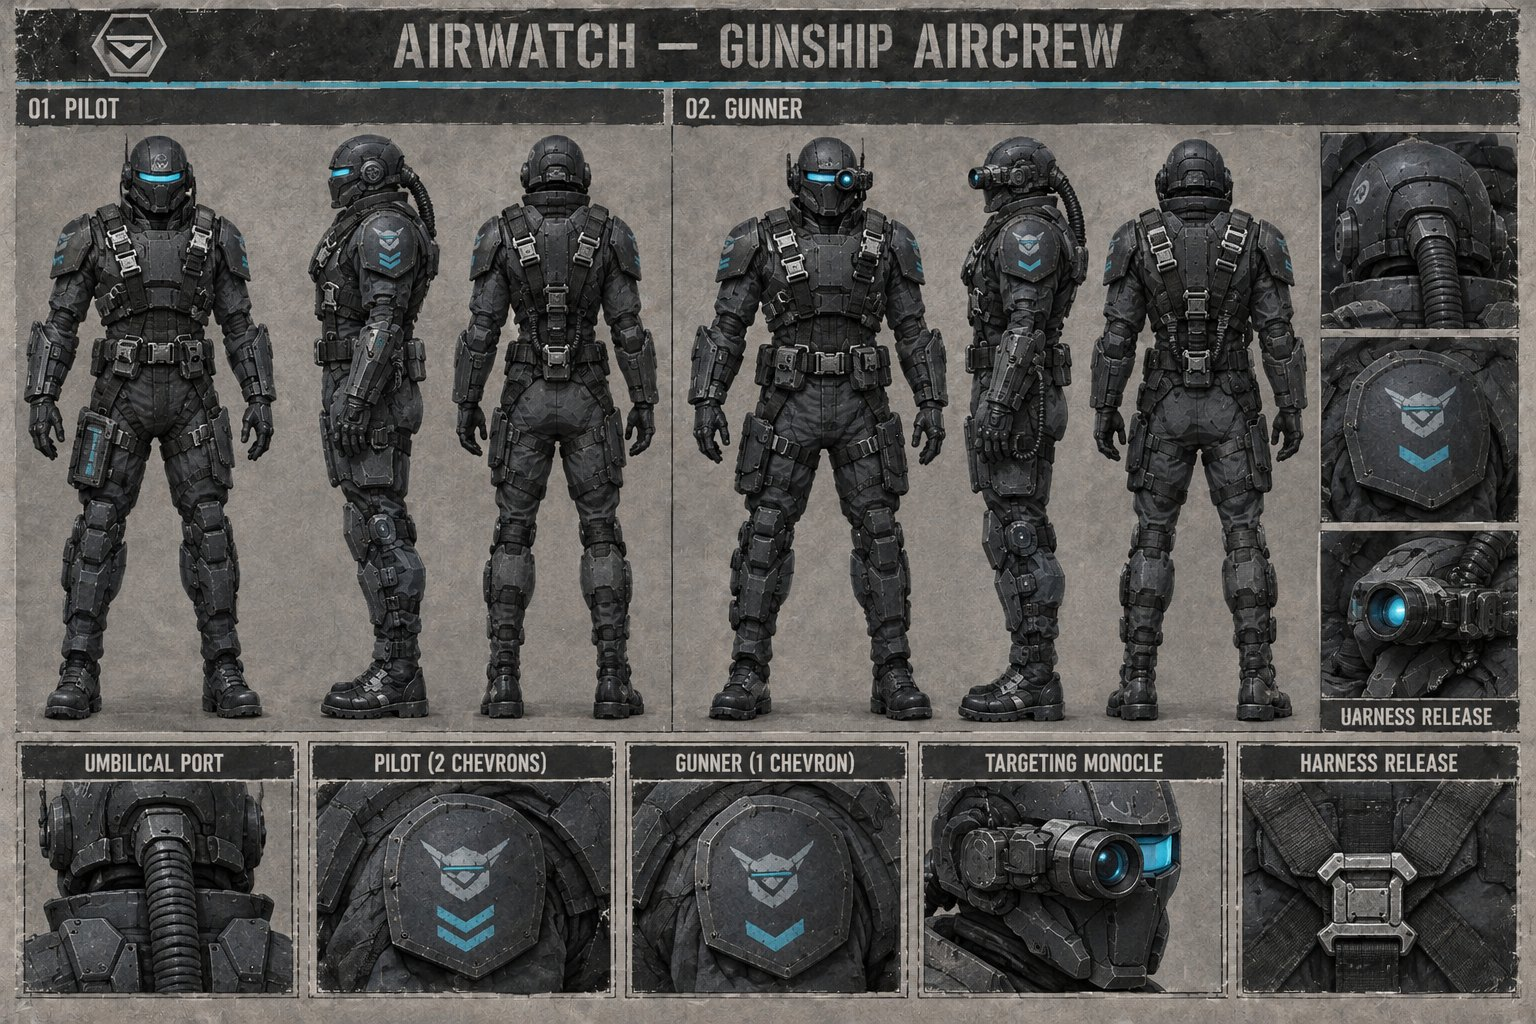
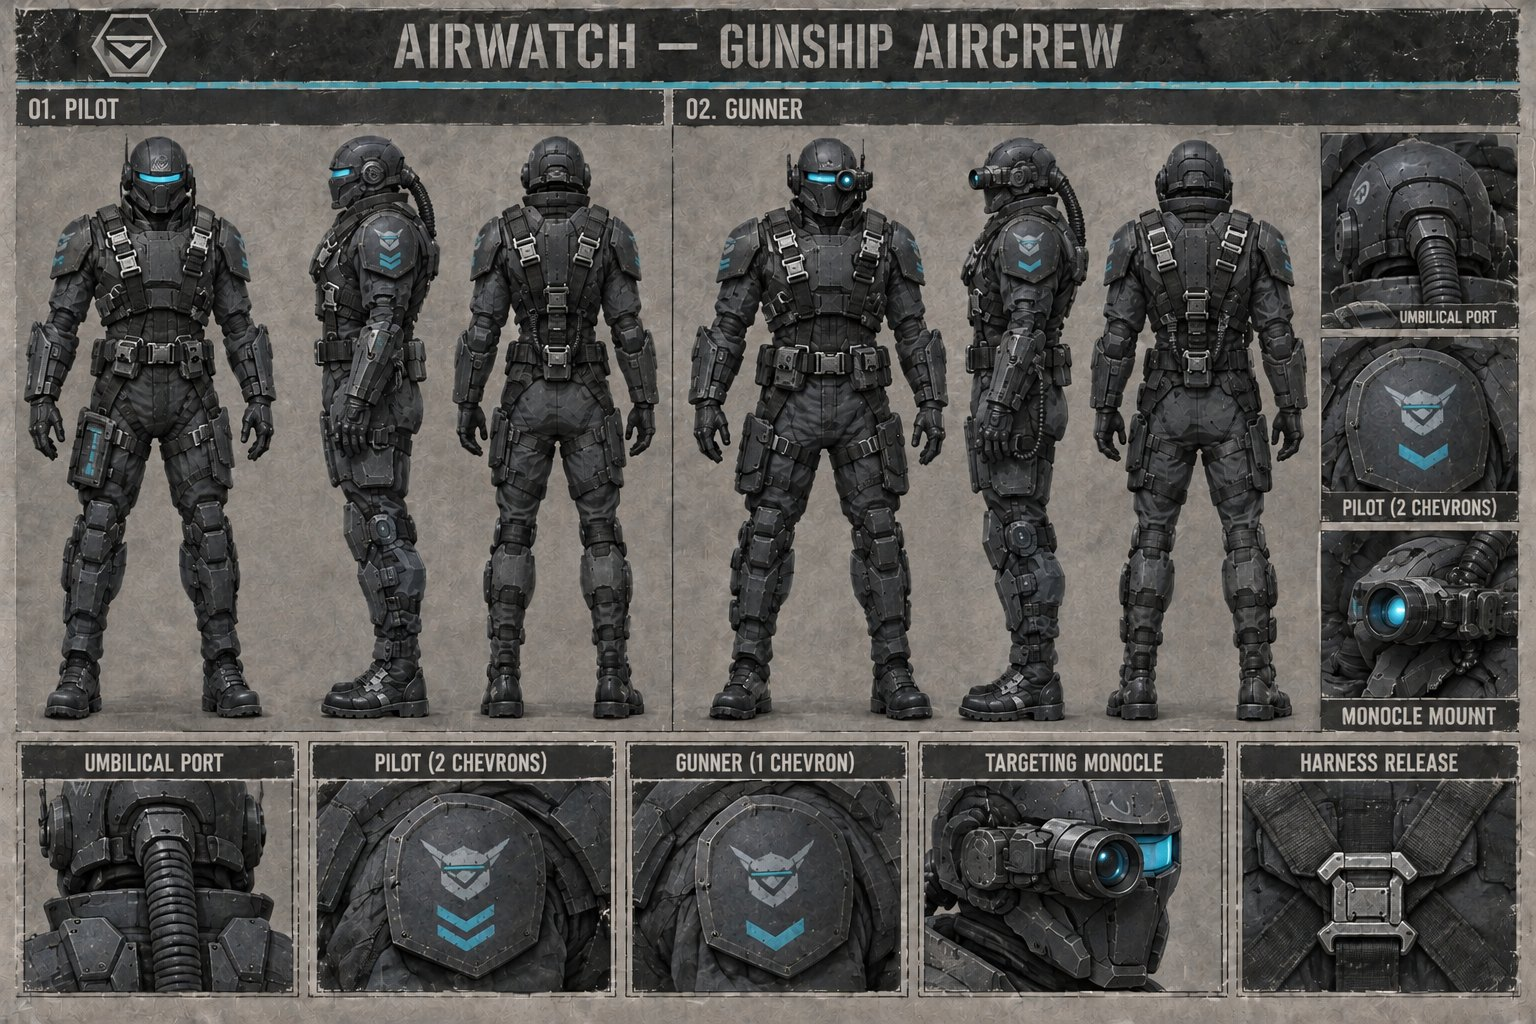
Art: Airwatch aircrew sheet Rev 2
Claude-Session: https://claude.ai/code/session_01FPxW8sjExYByq8Hjg1f5Jc

diff --git a/docs/style-sheet.md b/docs/style-sheet.md
@@ -1816,7 +1816,7 @@ Egen design. Förlagan (spelmodellen) bifogas **inte**. Airwatch bär inget tyg:
 | A2 Airwatch-besättning (pilot och skytt) | `airwatch-crew.jpg` | 1 ota-soldier · 2 A1 | förseglad flygrustning, navelsträng i hjälmens nacke, chevroner på skulderplattan |
 | A3 Shrike-gunship | `airwatch-shrike.jpg` | 1 vehicle-ota · 2 A1 · 3 A2 · 4 env/e01-city | tandem pilot/skytt, koaxiala rotorer, hakturret, raketkapslar, trupputrymme (6) mitt på kroppen med skjutdörrar på båda sidor, ingen dörr baktill, "AW-S 09-2" (Rev 2) |
 
-**Klara:** A1, A2 och A3 (Rev 2, redigerad till 3 soldater per dörr) är inlagda i codex-posten Airwatch. A2 har ett stavfel i en etikett ("UARNESS RELEASE").
+**Klara:** A1, A2 och A3 (Rev 2, redigerad till 3 soldater per dörr) är inlagda i codex-posten Airwatch. A2 Rev 2: högerspaltens mittre etikett säger "PILOT (2 CHEVRONS)" men visar en chevron; byt till "SHOULDER MARK".
 
 Undvik orden "rear"/"back" om trupputrymmet i prompten: modellen flyttar då dörrarna bakåt. Skriv "troop bay … sliding side doors on the left and right flanks".
 
